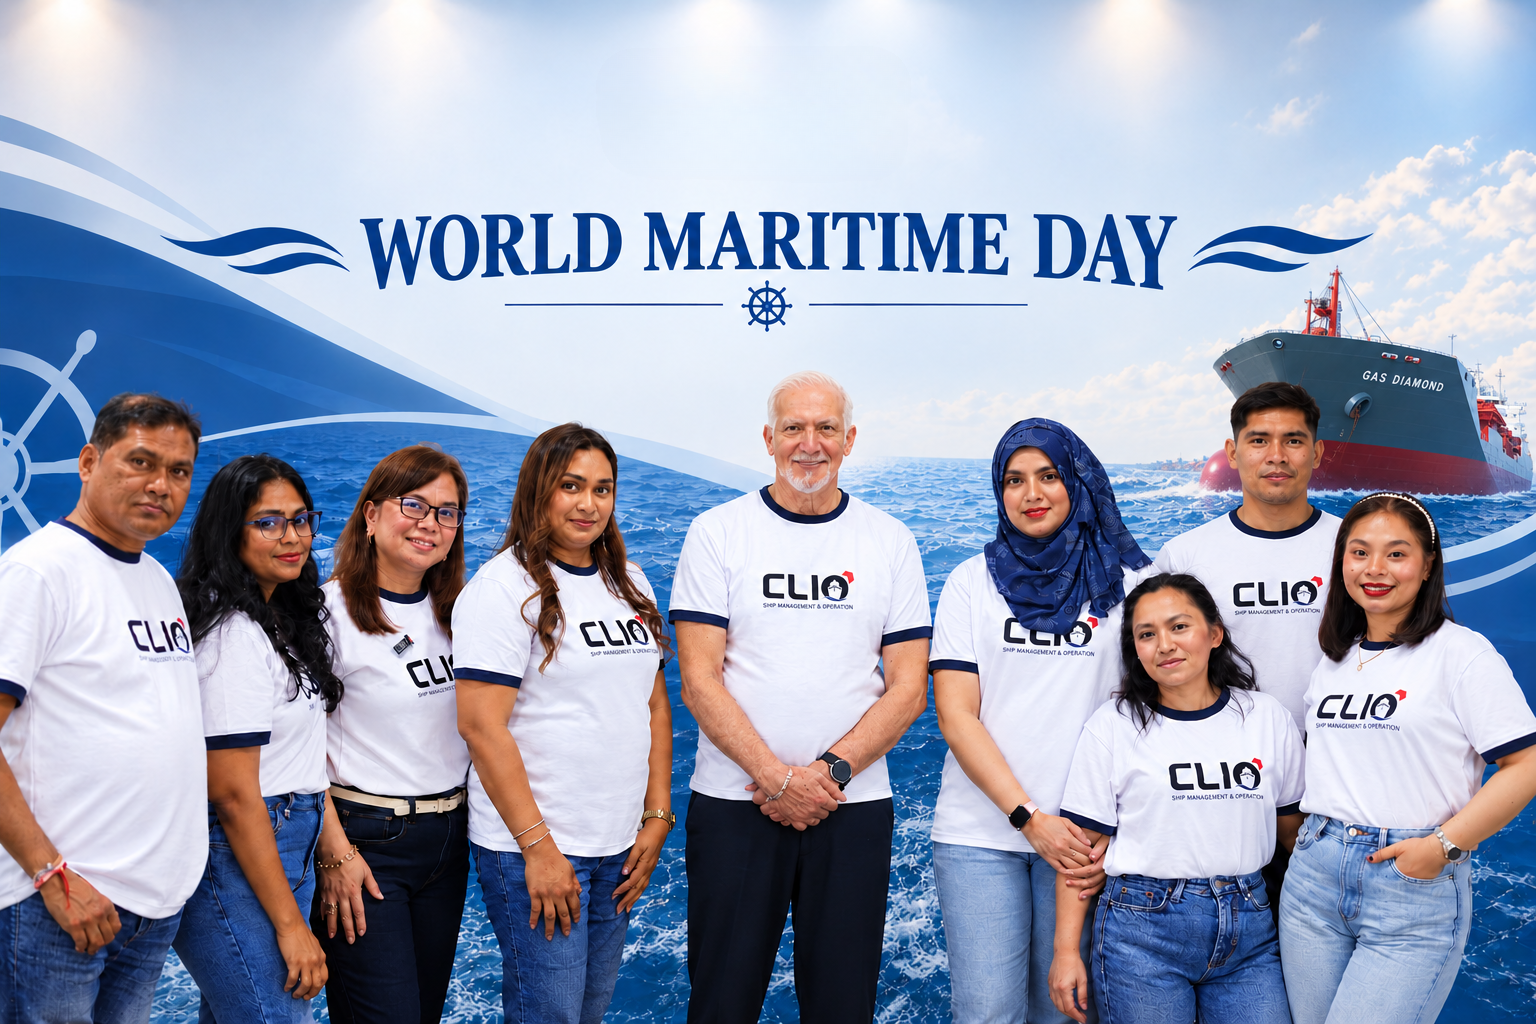
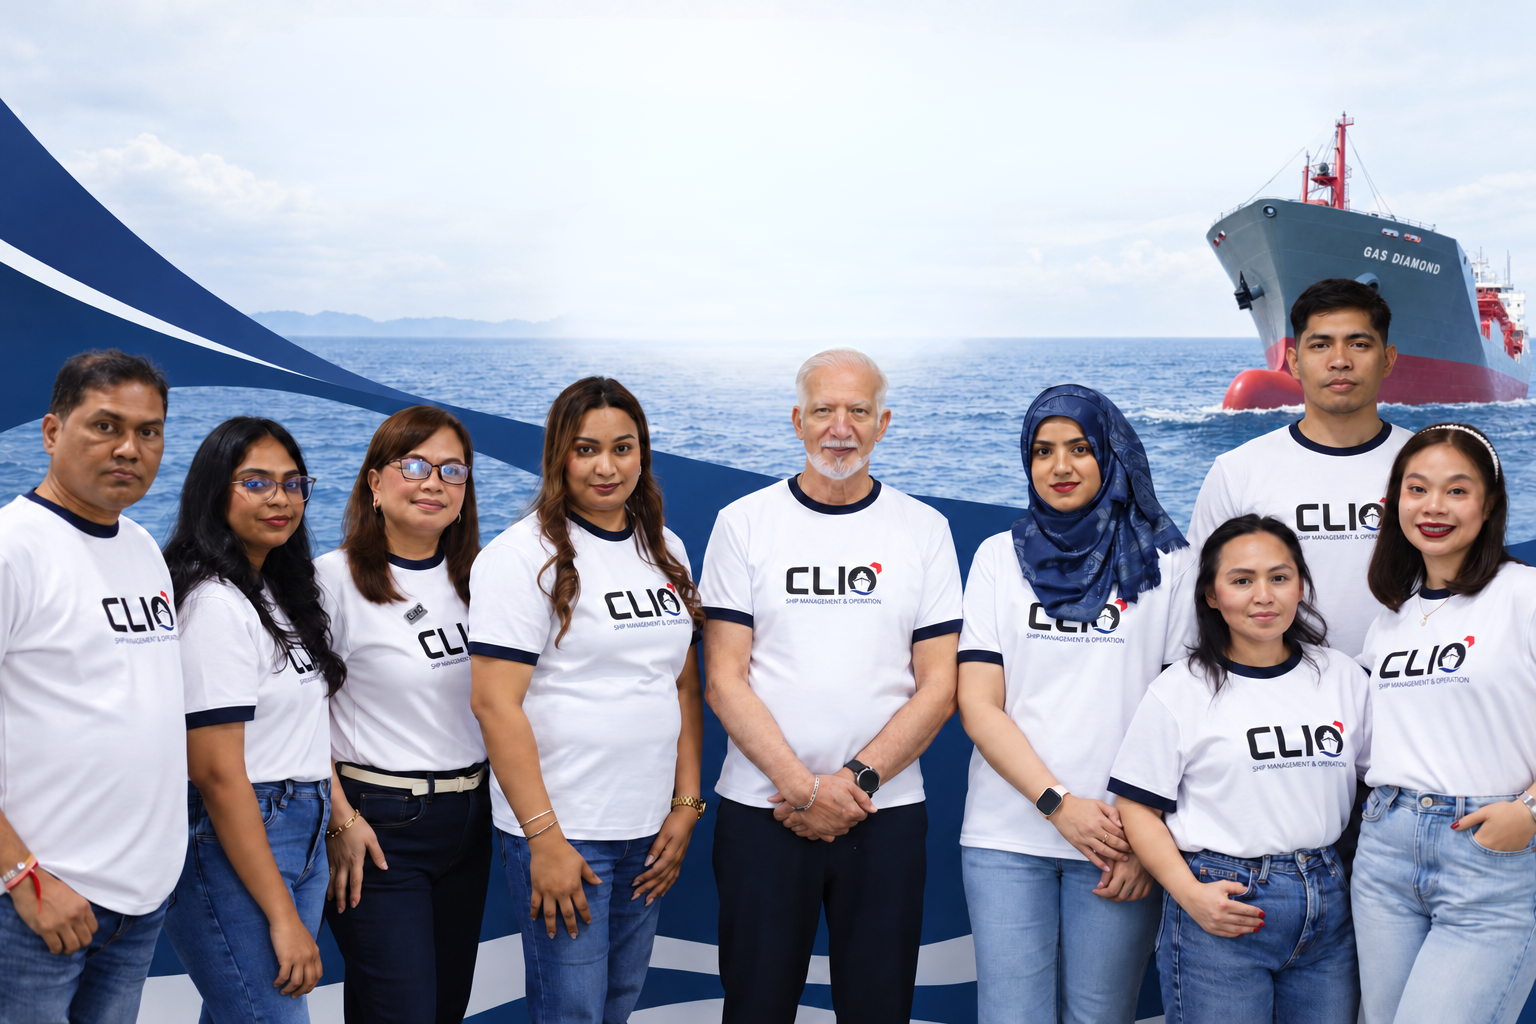
completed celebration updated images

diff --git a/features/blog/BlogCelebration.tsx b/features/blog/BlogCelebration.tsx
@@ -1,5 +1,6 @@
 import Image from "next/image";
-import blogCelebration from "../../public/images/blog/celebration.png";
+import celebrationBg from "../../public/images/blog/celebration.png"; 
+import celebrationTitle from "../../public/images/blog/title.png"; 
 
 export default function BlogCelebration() {
   return (
@@ -10,20 +11,30 @@ export default function BlogCelebration() {
           Celebrating World Maritime Day
         </h2>
 
-        {/* Image card */}
+        {/* Card */}
         <div
           tabIndex={0}
-          className="group relative mt-8 aspect-square min-h-[320px] w-full overflow-hidden rounded-[20px] outline-none sm:aspect-[16/9] sm:min-h-0 sm:rounded-[24px] lg:aspect-[1464/622] lg:rounded-[30px]"
+          className="group relative mt-8 aspect-[4/5] w-full overflow-hidden rounded-[20px] outline-none sm:aspect-[16/9] sm:rounded-[24px] lg:aspect-[1464/622] lg:rounded-[30px]"
         >
+          {/* Layer 1: background photo */}
           <Image
-            src={blogCelebration}
+            src={celebrationBg}
             alt="CLIO team celebrating World Maritime Day"
             fill
             sizes="(max-width: 1240px) 100vw, 1240px"
-            className="object-cover object-center transition-transform duration-500 sm:group-hover:scale-[1.02]"
+            className="object-cover object-bottom transition-transform duration-500 sm:object-center sm:group-hover:scale-[1.02]"
           />
 
-          {/* Overlay: always visible on mobile, hover/focus on sm and up */}
+          {/* Layer 2: title image, fixed position at the top centre */}
+          <Image
+            src={celebrationTitle}
+            alt=""
+            aria-hidden="true"
+            sizes="(max-width: 640px) 90vw, 60vw"
+            className="pointer-events-none absolute left-1/2 top-[7%] h-auto w-[90%] -translate-x-1/2 sm:top-[6%] sm:w-[60%]"
+          />
+
+          {/* Layer 3: text. Always visible on mobile, hover/focus on sm and up */}
           <div
             className="
               absolute inset-0 flex items-end
